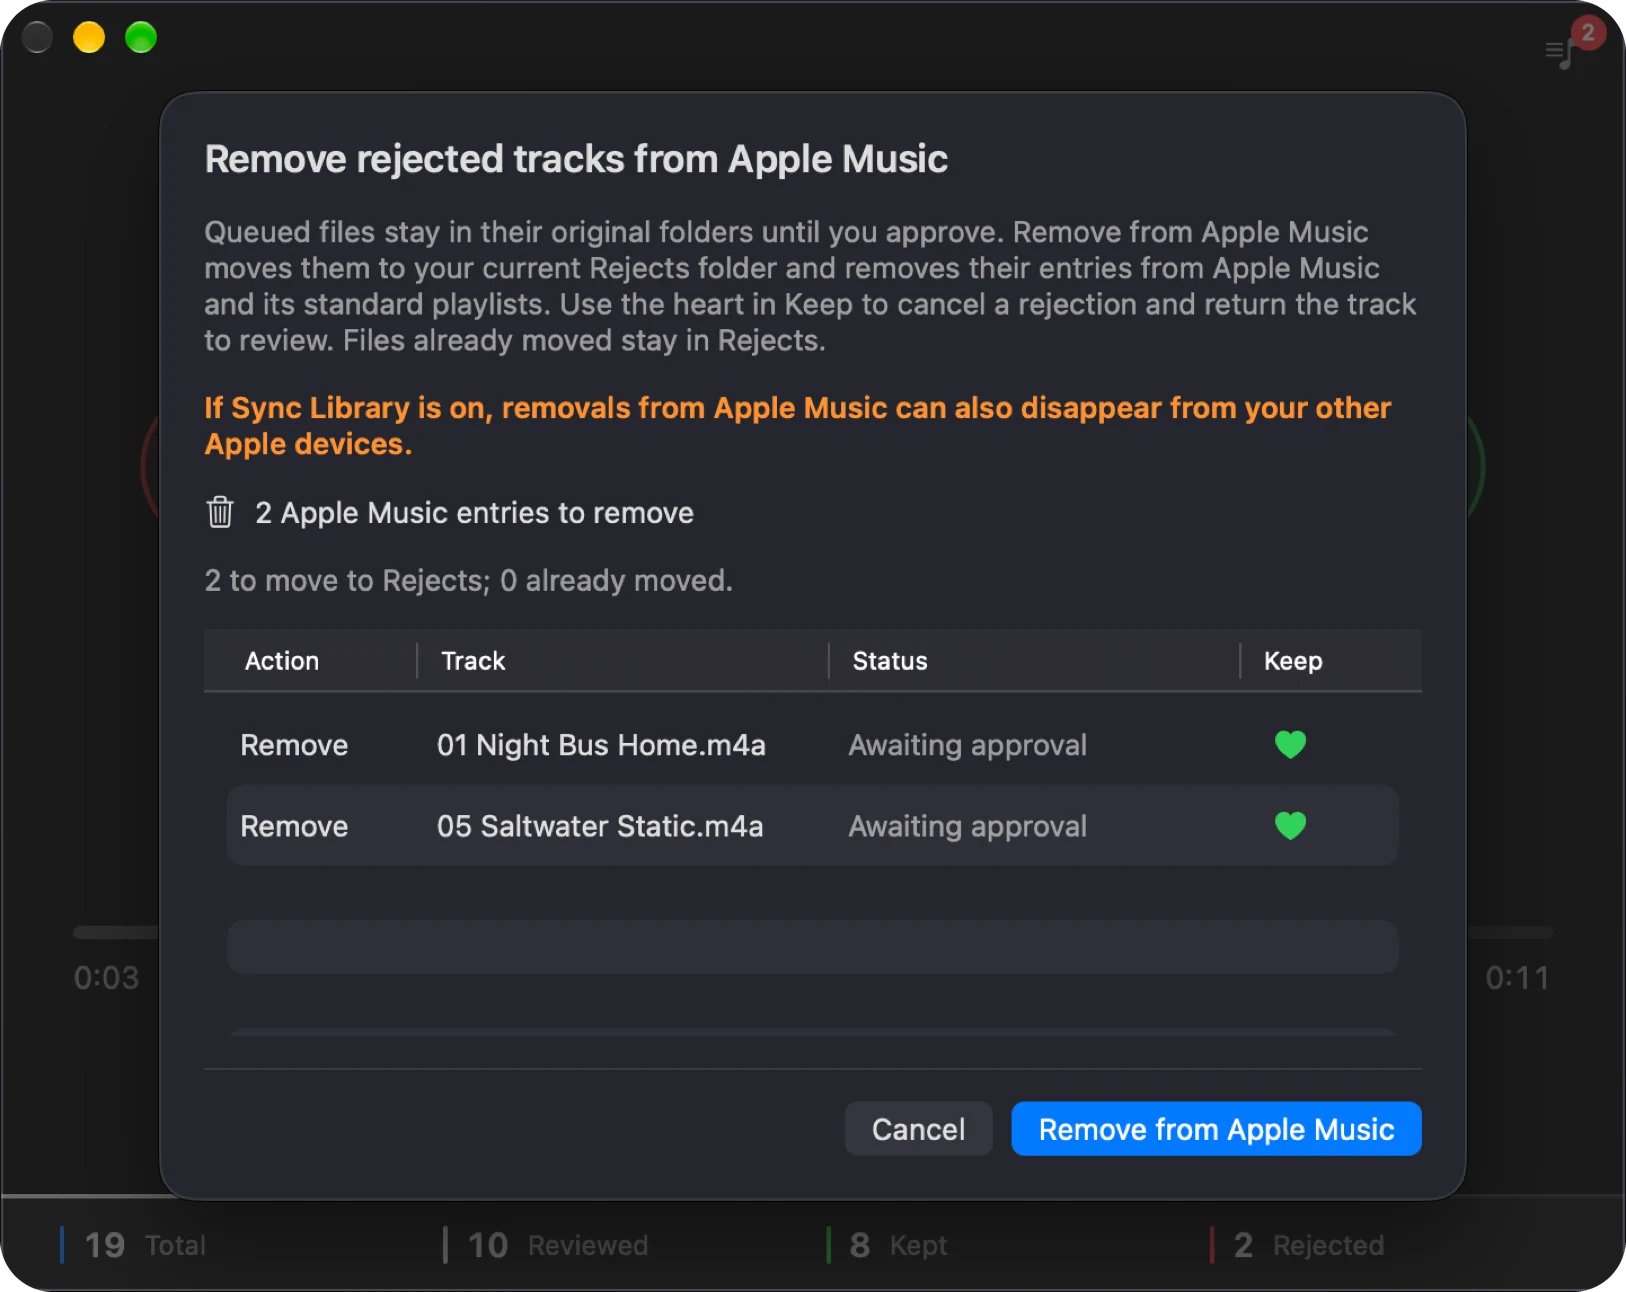
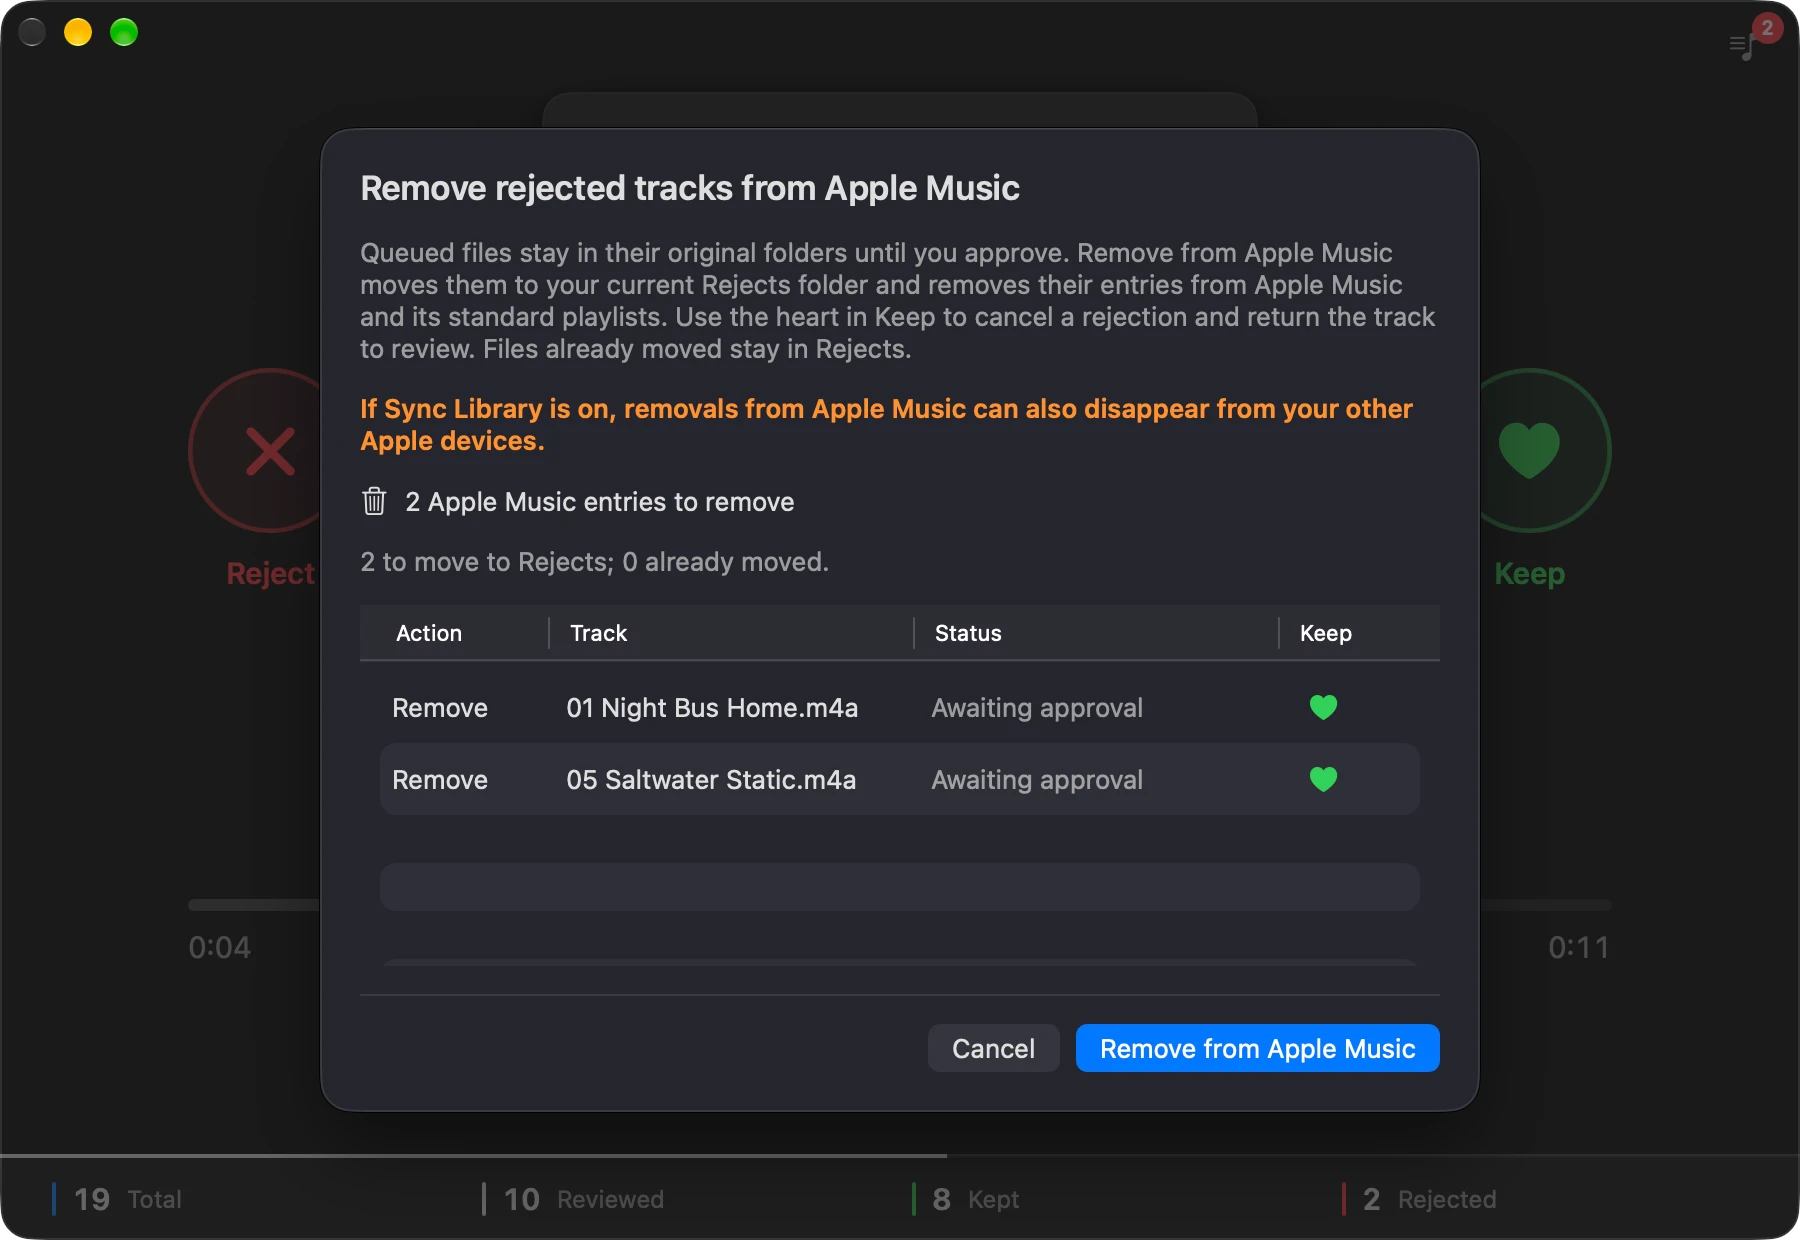
Use clean window captures with true transparent corners
The app images are now screen captures of the window itself, so their
rounded corners are the window's own, with no hand masking and no stray
background. Hero captures are the 900 x 620 sorting window at 2x
(1800 x 1240) and the setup screen 1440 x 1144; the width and height
attributes and the hero's height-based sizing follow. The Open Graph
image is redrawn in the site's design.

diff --git a/index.html b/index.html
@@ -63,9 +63,9 @@
       <div class="showcase" id="showcase" role="tabpanel" aria-labelledby="tab-am" tabindex="0">
         <div class="showcase-glow" aria-hidden="true"></div>
         <div class="showcase-stage">
-          <img class="shot" src="images/apple-music.webp" width="1626" height="1292" alt="Syfter reviewing Night Bus Home by Harbor Lights from Apple Music, with Reject and Keep on either side">
-          <img class="shot" src="images/folder.webp" width="1626" height="1292" loading="lazy" hidden alt="Syfter reviewing Midnight Rollers by Cold Harbour Sound from a music folder">
-          <img class="shot" src="images/samples.webp" width="1626" height="1292" loading="lazy" hidden alt="Syfter reviewing a Half Time Break 85 BPM sample">
+          <img class="shot" src="images/apple-music.webp" width="1800" height="1240" alt="Syfter reviewing Night Bus Home by Harbor Lights from Apple Music, with Reject and Keep on either side">
+          <img class="shot" src="images/folder.webp" width="1800" height="1240" loading="lazy" hidden alt="Syfter reviewing Midnight Rollers by Cold Harbour Sound from a music folder">
+          <img class="shot" src="images/samples.webp" width="1800" height="1240" loading="lazy" hidden alt="Syfter reviewing a Half Time Break 85 BPM sample">
         </div>
         <div class="showcase-caption" aria-live="off">
           <span class="kicker" data-kicker>FOR LISTENERS</span>
@@ -112,7 +112,7 @@
       <h2>All your music,<br><span class="dim">one review.</span></h2>
       <p class="lede">Apple Music, music folders and sample folders, side by side. MP3, AAC, FLAC, WAV and AIFF, wherever you keep them.</p>
     </div>
-    <img src="images/choose-music.webp" width="1626" height="1292" loading="lazy" alt="Syfter's Choose your music screen, with Apple Music, a Records folder and a Samples folder selected">
+    <img src="images/choose-music.webp" width="1440" height="1144" loading="lazy" alt="Syfter's Choose your music screen, with Apple Music, a Records folder and a Samples folder selected">
   </div>
 </section>
 
@@ -125,7 +125,7 @@
         <a class="btn btn--dark" href="#top">Coming soon to the Mac App Store</a>
       </div>
     </div>
-    <img src="images/approve.webp" width="1626" height="1292" loading="lazy" alt="Syfter's approval sheet listing rejected tracks awaiting approval before removal from Apple Music">
+    <img src="images/approve.webp" width="1800" height="1240" loading="lazy" alt="Syfter's approval sheet listing rejected tracks awaiting approval before removal from Apple Music">
   </div>
 </section>
 

diff --git a/style.css b/style.css
@@ -41,9 +41,10 @@ a { color: inherit; }
 .tab { min-height: 44px; padding: 0 18px; border-radius: 999px; border: 0; cursor: pointer; font: 600 14px var(--display); background: transparent; color: var(--muted); transition: background .2s, color .2s; }
 .tab[aria-selected="true"] { background: var(--text); color: var(--ink); }
 .tab:focus-visible { outline: 2px solid var(--accent); outline-offset: 2px; }
-/* The whole app window fits on the first screen: its width follows the screen height (the crops
-   are 1626 x 1292), never wider than 1200px and never narrower than 380px, about 300px tall. */
-.showcase { position: relative; margin: 0; width: 100%; max-width: 1200px; max-width: min(1200px, max(380px, (100svh - 190px) * 1.2585)); }
+/* The whole app window fits on the first screen: its width follows the screen height (the hero
+   captures are the 900 x 620 window at 2x, 1800 x 1240), never wider than 1200px and never
+   narrower than 380px, about 260px tall. */
+.showcase { position: relative; margin: 0; width: 100%; max-width: 1200px; max-width: min(1200px, max(380px, (100svh - 190px) * 1.4516)); }
 .showcase-glow { position: absolute; left: 8%; right: 8%; bottom: -6%; height: 40%; background: var(--accent); opacity: .16; filter: blur(80px); border-radius: 50%; }
 .showcase-stage { position: relative; display: grid; }
 /* A true crossfade: the outgoing image keeps its visibility until its fade has finished. */
